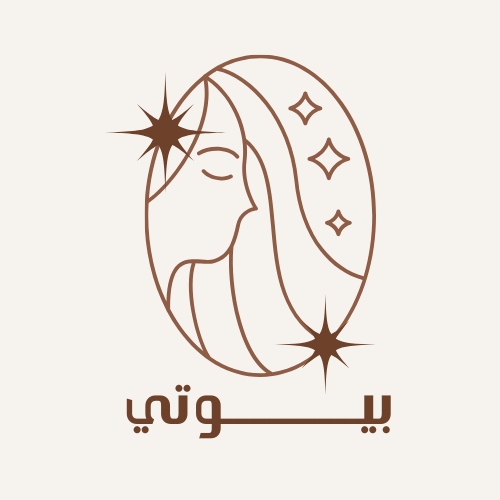
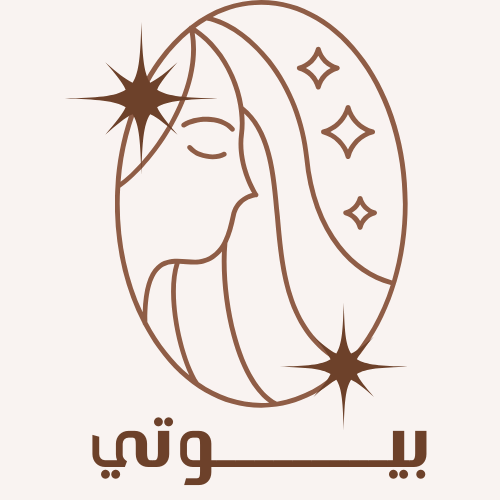
edit about us page

Changed region(s): [[0.15, 0.0, 0.87, 0.99], [0.21, 0.12, 0.24, 0.15]]

diff --git a/FrontEnd/src/Pages/About.jsx b/FrontEnd/src/Pages/About.jsx
@@ -21,69 +21,51 @@ export default function EnhancedAboutPage() {
   const [booking, setBooking] = useState([]);
   // Fetch data from Firebase using Axios
   useEffect(() => {
-    axios
-      .get("http://localhost:3000/api/salons")
-      .then((response) => {
-        // Convert Firebase data to array (as it comes as an object)
-        const fetchedSalons = [];
-        for (let key in response.data) {
-          fetchedSalons.push({
+    const fetchData = async () => {
+      try {
+        const [salonsRes, usersRes, bookingsRes] = await Promise.all([
+          axios.get("http://localhost:3000/api/salons"),
+          axios.get("http://localhost:3000/api/users/all"),
+          axios.get("http://localhost:3000/api/bookings"),
+        ]);
+
+        // تحويل البيانات من object إلى array
+        const fetchedSalons = Object.entries(salonsRes.data).map(
+          ([key, value]) => ({
             id: key,
-            ...response.data[key],
-          });
-        }
+            ...value,
+          })
+        );
+
+        const fetchedUsers = Object.entries(usersRes.data).map(
+          ([key, value]) => ({
+            id: key,
+            ...value,
+          })
+        );
+
+        const fetchedBooking = Object.entries(bookingsRes.data).map(
+          ([key, value]) => ({
+            id: key,
+            ...value,
+          })
+        );
+
         console.log(fetchedSalons);
-        setSalons(fetchedSalons);
-        setLoading(false);
-      })
-      .catch((error) => {
-        setError(error);
-        setLoading(false);
-      });
-  }, []);
-
-  useEffect(() => {
-    axios
-      .get("http://localhost:3000/api/users/all")
-      .then((response) => {
-        // Convert Firebase data to array (as it comes as an object)
-        const fetchedUsers = [];
-        for (let key in response.data) {
-          fetchedUsers.push({
-            id: key,
-            ...response.data[key],
-          });
-        }
         console.log(fetchedUsers);
-        setUsers(fetchedUsers);
-        setLoading(false);
-      })
-      .catch((error) => {
-        setError(error);
-        setLoading(false);
-      });
-  }, []);
-
-  useEffect(() => {
-    axios
-      .get("http://localhost:3000/api/bookings")
-      .then((response) => {
-        // Convert Firebase data to array (as it comes as an object)
-        const fetchedBooking = [];
-        for (let key in response.data) {
-          fetchedBooking.push({
-            id: key,
-            ...response.data[key],
-          });
-        }
         console.log(fetchedBooking);
+
+        setSalons(fetchedSalons);
+        setUsers(fetchedUsers);
         setBooking(fetchedBooking);
-        setLoading(false);
-      })
-      .catch((error) => {
+      } catch (error) {
         setError(error);
+      } finally {
         setLoading(false);
-      });
+      }
+    };
+
+    fetchData();
   }, []);
 
   return (
@@ -99,7 +81,7 @@ export default function EnhancedAboutPage() {
               dir="rtl"
               className="text-5xl md:text-6xl font-bold mb-4 text-white"
             >
-              حول <span style={{ color: "#B58152" }}>GlamBook</span>
+              حول <span style={{ color: "#B58152" }}>بيوتي</span>
             </h1>
             <div
               className="w-24 h-1 mx-auto my-6"
@@ -109,7 +91,7 @@ export default function EnhancedAboutPage() {
               الطريقة الذكية لحجز صالونات التجميل
             </p>
             <p className="text-lg max-w-2xl mx-auto text-white">
-              اكتشف أفضل تجارب الجمال والعافية في منطقتك بنقرات قليلة.
+              اكتشف أفضل تجارب الجمال والعناية في منطقتك بنقرات قليلة.
             </p>
           </div>
         </div>
@@ -130,7 +112,7 @@ export default function EnhancedAboutPage() {
               style={{ backgroundColor: "#a0714f" }}
             ></div>
             <p dir="rtl" className="text-lg mb-6" style={{ color: "#a0714f" }}>
-              GlamBook يحدث ثورة في طريقة اكتشافك وحجزك لخدمات التجميل. تربطك
+              بيوتي يحدث ثورة في طريقة اكتشافك وحجزك لخدمات التجميل. تربطك
               منصتنا المنسقة بأفضل الصالونات والمنتجعات، مقدمةً تجربة حجز سلسة
               تضع الجمال في متناول يديك.
             </p>
@@ -144,22 +126,8 @@ export default function EnhancedAboutPage() {
             <div className="relative flex">
               <div className="rounded-lg overflow-hidden shadow-xl">
                 <img
-                  src="https://i.pinimg.com/474x/61/be/fd/61befd88356e76dc848601cb47a555c1.jpg"
+                  src="../../public/بيـــــــــوتي.png"
                   alt="تجربة الصالون"
-                  className="w-full h-full object-cover"
-                />
-              </div>
-              <div className="absolute -bottom-6 -left-6 w-40 h-40 rounded-lg shadow-lg overflow-hidden">
-                <img
-                  src="https://i.pinimg.com/474x/0f/68/d7/0f68d7456cd87786ee9c3122ea993f12.jpg"
-                  alt="علاج تجميلي"
-                  className="w-full h-full object-cover"
-                />
-              </div>
-              <div className="absolute -top-6 -right-6 w-40 h-40 rounded-lg shadow-lg overflow-hidden">
-                <img
-                  src="https://i.pinimg.com/474x/31/f4/70/31f4708378280a6c9adfed5d13a9c379.jpg"
-                  alt="جلسة مكياج"
                   className="w-full h-full object-cover"
                 />
               </div>
@@ -183,7 +151,7 @@ export default function EnhancedAboutPage() {
               style={{ backgroundColor: "#a0714f" }}
             ></div>
             <p dir="rtl" className="text-lg" style={{ color: "#a0714f" }}>
-              في GlamBook، نؤمن بأن خدمات التجميل يجب أن تكون متاحة وشفافة
+              في بيوتي، نؤمن بأن خدمات التجميل يجب أن تكون متاحة وشفافة
               واستثنائية. نحن ملتزمون بإنشاء منصة يمكن للعملاء من خلالها العثور
               على وجهتهم المثالية للجمال، ويمكن للصالونات عرض مواهبهم الفريدة.
             </p>
@@ -276,7 +244,7 @@ export default function EnhancedAboutPage() {
             className="text-4xl font-bold mb-6"
             style={{ color: "#B58152" }}
           >
-            كيف يعمل GlamBook
+            كيف يعمل بيوتي
           </h2>
           <div
             className="w-24 h-1 mx-auto mb-8"
@@ -383,7 +351,7 @@ export default function EnhancedAboutPage() {
                 style={{ color: "#a0714f" }}
               >
                 انضم إلى شبكتنا المتنامية من محترفي التجميل وغيّر طريقة إدارتك
-                لعملك. يوفر GlamBook أدوات قوية لعرض خدماتك، وتبسيط الحجوزات،
+                لعملك. يوفر بيوتي أدوات قوية لعرض خدماتك، وتبسيط الحجوزات،
                 وزيادة قاعدة عملائك.
               </p>
 
@@ -489,7 +457,7 @@ export default function EnhancedAboutPage() {
         <div className="container mx-auto px-6 relative z-10">
           <div dir="rtl" className="text-center mb-16">
             <h2 className="text-4xl font-bold mb-6 text-white">
-              مجتمع GlamBook
+              مجتمع بيوتي
             </h2>
             <div
               className="w-24 h-1 mx-auto mb-8"
@@ -562,7 +530,7 @@ export default function EnhancedAboutPage() {
                 style={{ backgroundColor: "#a0714f" }}
               ></div>
               <p className="text-lg mb-10" style={{ color: "#a0714f" }}>
-                لديك أسئلة حول GlamBook ؟ يسرنا الاستماع إليك! فريقنا مستعد
+                لديك أسئلة حول بيوتي ؟ يسرنا الاستماع إليك! فريقنا مستعد
                 لمساعدتك في البدء، سواء كنت عميلاً تريد الحجز أو صالوناً مهتماً
                 بالانضمام إلى منصتنا.
               </p>

diff --git a/FrontEnd/src/components/Navbar.jsx b/FrontEnd/src/components/Navbar.jsx
@@ -113,7 +113,7 @@ const Navbar = () => {
         <div className="flex justify-between items-center h-16">
           {/* الشعار */}
           <img
-            className=" h-18 object-cover"
+            className=" h-14 object-cover"
             src="../../public/بيـــــــــوتي.png"
             alt="بيوتي"
           />
